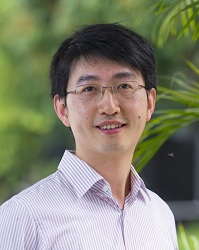
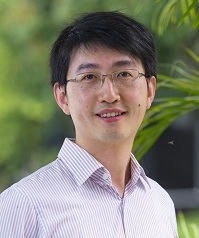
fix: fintech judges img size

diff --git a/assets/css/style.css b/assets/css/style.css
@@ -205,7 +205,6 @@ textarea.input {
 #header:not(.transparent-navbar) .navbar-brand .logo .logo-alt-img {
   display: none;
 }
-
 /*=========================================================
 	NAVIGATION
 ===========================================================*/
@@ -501,7 +500,7 @@ textarea.input {
 }
 
 .speaker .speaker-img>img {
-  width: 100%
+  width: 100%;
 }
 
 .categories-img>img {
